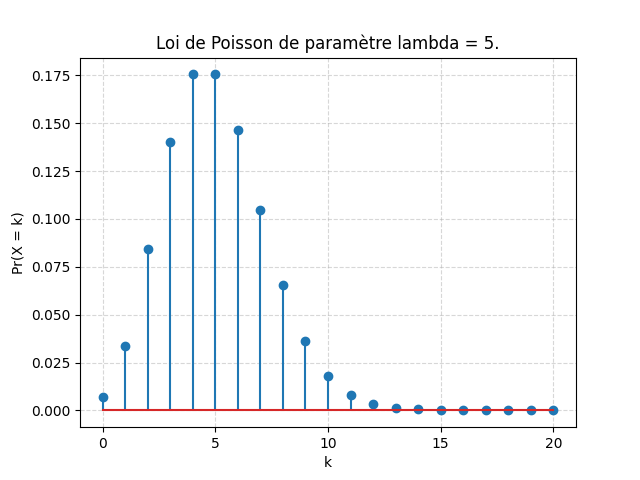
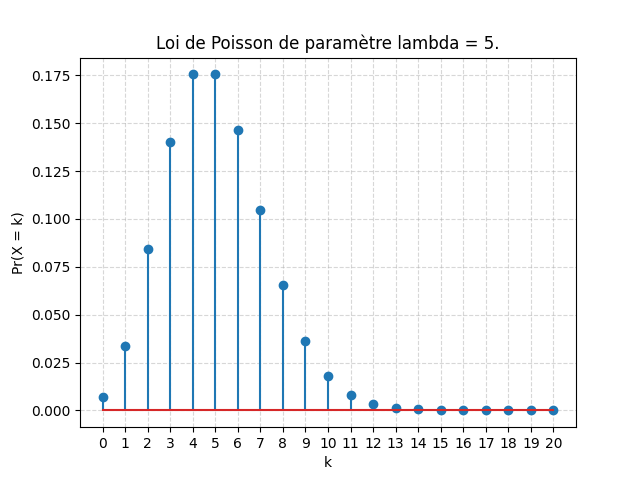
mise a jour seance 4

diff --git a/Seance-04/src/main.py b/Seance-04/src/main.py
@@ -12,11 +12,12 @@ import math
 
 dist_names = ['norm', 'beta', 'gamma', 'pareto', 't', 'lognorm', 'invgamma', 'invgauss',  'loggamma', 'alpha', 'chi', 'chi2', 'bradford', 'burr', 'burr12', 'cauchy', 'dweibull', 'erlang', 'expon', 'exponnorm', 'exponweib', 'exponpow', 'f', 'genpareto', 'gausshyper', 'gibrat', 'gompertz', 'gumbel_r', 'pareto', 'pearson3', 'powerlaw', 'triang', 'weibull_min', 'weibull_max', 'bernoulli', 'betabinom', 'betanbinom', 'binom', 'geom', 'hypergeom', 'logser', 'nbinom', 'poisson', 'poisson_binom', 'randint', 'zipf', 'zipfian']
 
+###
+# DEFINITION DES FONCTIONS LOCALES
+###
 
-## 1 - VISUALISER DES DISTRIBUTIONS
-## 1.A - Distributions statistiques de Variables DISCRETES
-
-## Question 1.A.1 - Loi de Dirac
+## Distributions statistiques de Variables DISCRETES
+## 1.A.1 - Loi de Dirac
 # Dirac = "Une seule issue est probable à 100%."
 def distrib_dirac_discret(a, x_min, x_max):
     X = []
@@ -30,10 +31,121 @@ def distrib_dirac_discret(a, x_min, x_max):
 
     return X, P
 
+## 1.A.2 - Loi Uniforme Discrète
+# Uniforme : "Toutes les issues sont équiprobables."
+def distrib_uniforme_discret(x_min, x_max):
+    X = []
+    P = []
+
+    n = (x_max - x_min) + 1   # n = nombre de valeurs possibles
+    for i in range(x_min, x_max+1):
+        X.append(i)
+        P.append(1/n)         # 1/n = probabilité pour chacune
+
+    return X, P
+
+## 1.A.3 - Loi Binomiale
+def distrib_binomiale_discret(n, p):
+    K = []
+    for k in range(0, n+1):
+        K.append(k)
+
+    P = scipy.stats.binom.pmf(K, n, p)
+
+    return K, P
+
+
+## 1.A.4 - Loi de Poisson
+def distrib_poisson_discret(lam, n_max):
+    K = []
+    for k in range(0, n_max +1):
+        K.append(k)
+
+    P = scipy.stats.poisson.pmf(K, lam)
+
+    return K, P
+
+
+## 1.A.5 - Loi de Zipf-Mandelbrot
+def distrib_zipf_mandelbrot(s, q, N):
+    X = []
+    P = []
+    # Calcul de la constante de normalisation H
+    H = 0
+    for i in range(0, N+1):
+        H += 1.0 / ((i + q)**s)
+    # Fin du calcul de H
+
+    for i in range(0, N+1):
+        X.append(i)
+        P.append(1.0 / (H * ((i + q)**s)))
+
+    return X, P
+
+## Distributions statistiques de Variables CONTINUES
+## 1.B.1 - Loi de Poisson
+def distrib_poisson_continu(mu, n_max, finesse):
+    K_cont = np.linspace(0, n_max, finesse)
+    P_cont = []
+    for i in range(0, len(K_cont)):
+        k = K_cont[i]
+        pr_k = math.exp(-mu) * (mu**k) / (math.gamma(k+1))
+        P_cont.append(pr_k)
+
+    return K_cont, P_cont
+
+## 1.B.2 - Loi Normale
+# Loi Normale : "La fameuse Gaussienne"
+def distrib_normale_continu(mu, sigma, facteur_sigma = 3, finesse = 500):
+    K_cont = np.linspace(mu - facteur_sigma*sigma, mu + facteur_sigma*sigma, finesse) # la largeur de l'intervalle est fixée ici
+    P_cont = scipy.stats.norm.pdf(K_cont, mu, sigma)
+
+    return K_cont, P_cont
+
+## 1.B.3 - Loi Log-normale
+def distrib_normale_continu(mu, sigma, n_max, finesse = 500):
+    K_cont = np.linspace(0.001, n_max, finesse) 
+    P_cont = scipy.stats.lognorm.pdf(K_cont, s=sigma, scale=np.exp(mu))
+
+    return K_cont, P_cont
+
+## 1.B.4 - Loi Uniforme
+def distrib_uniforme_continu(x_min, a, b, x_max, finesse = 500):
+    K_cont = np.linspace(x_min, x_max, finesse)
+    P_cont = scipy.stats.uniform.pdf(K_cont, loc=a, scale=b-a)
+
+    return K_cont, P_cont
+
+## 1.B.5 - Loi du Chi²
+def distrib_chi2_continu(k, n_max, finesse = 500):
+    K_cont = np.linspace(0.001, n_max, finesse)
+    P_cont = scipy.stats.chi2.pdf(K_cont, df=k)
+
+    return K_cont, P_cont
+
+## Question 1.B.6 - Loi de Pareto
+def distrib_pareto_continu(alpha, x_m, n_max, finesse = 500):
+    K_cont = np.linspace(x_m, n_max, finesse)
+    P_cont = scipy.stats.pareto.pdf(K_cont, b=alpha, scale=x_m)
+
+    return K_cont, P_cont
+
+
+
+
+
+
+
+## 1 - VISUALISER DES DISTRIBUTIONS
+## 1.A - Distributions statistiques de Variables DISCRETES
+
+## Question 1.A.1 - Loi de Dirac
+# Dirac = "Une seule issue est probable à 100%."
+
 # Paramètrage
-a = 5
-x_min = 1
-x_max = 6
+a = 7
+x_min = 0
+x_max = 20
 
 # On génère la distribution
 X, P = distrib_dirac_discret(a, x_min, x_max)
@@ -53,16 +165,6 @@ plt.close()
 
 ## Question 1.A.2 - Loi Uniforme Discrète
 # Uniforme : "Toutes les issues sont équiprobables."
-def distrib_uniforme_discret(x_min, x_max):
-    X = []
-    P = []
-
-    n = (x_max - x_min) + 1   # n = nombre de valeurs possibles
-    for i in range(x_min, x_max+1):
-        X.append(i)
-        P.append(1/n)         # 1/n = probabilité pour chacune
-
-    return X, P
 
 # Paramètrage
 x_min = 1
@@ -85,19 +187,10 @@ plt.close()
 
 
 
-
 ## Question 1.A.3 - Loi Binomiale
 # Binomiale : "Je joue à pile ou face 57 fois, 
 #              combien j'ai de chance de remporter au total:
 #              0 manche? 1 manche? 2 manches? ... 57 manches?"
-def distrib_binomiale_discret(n, p):
-    K = []
-    for k in range(0, n+1):
-        K.append(k)
-
-    P = scipy.stats.binom.pmf(K, n, p)
-
-    return K, P
 
 # Paramètrage
 n = 20    # Nombre d'épreuves
@@ -119,6 +212,7 @@ plt.close()
 
 
 
+
 ## Question 1.A.4 - Loi de Poisson
 # Poisson : "Même philosophie que Binomiale, mais quand événement rare."
 #           Exemple : Hypothèse = il y a en moyenne 2 etoiles filantes chaque 5 min.
@@ -126,14 +220,6 @@ plt.close()
 #                     Maintenant on choisit dans la soirée une tranche de 5 min :
 #                        Alors Poisson donne la probabilité qu'il y passe :
 #                        0 comète / 1 comète / 2 comètes / ... / 14 980 comètes / ...
-def distrib_poisson_discret(lam, n_max):
-    K = []
-    for k in range(0, n_max +1):
-        K.append(k)
-
-    P = scipy.stats.poisson.pmf(K, lam)
-
-    return K, P
 
 # Paramètrage
 lam = 5     # Paramètre lambda
@@ -146,12 +232,11 @@ K, P = distrib_poisson_discret(lam, n_max)
 plt.stem(K, P)
 plt.title("Loi de Poisson de paramètre lambda = {}.".format(lam))
 plt.xlabel("k")
-plt.xticks(K[::5])
+plt.xticks(K)
 plt.ylabel("Pr(X = k)")
 plt.grid(True, linestyle="--", alpha=0.5)
 plt.savefig("./output/1_A_Distrib_Discretes/4_Poisson_discret.png")
 plt.close()
-
 
 
 
@@ -173,20 +258,6 @@ plt.close()
 # 
 # N.B.: Zipf-Mandelbrot se retrouve souvent en géographie !
 #       Exemple : classement des populations des villes.
-def distrib_zipf_mandelbrot(s, q, N):
-    X = []
-    P = []
-    # Calcul de la constante de normalisation H
-    H = 0
-    for i in range(0, N+1):
-        H += 1.0 / ((i + q)**s)
-    # Fin du calcul de H
-
-    for i in range(0, N+1):
-        X.append(i)
-        P.append(1.0 / (H * ((i + q)**s)))
-
-    return X, P
 
 # Paramètrage
 s = 1.5  # Exposant (doit être > 1)
@@ -209,18 +280,8 @@ plt.close()
 
 
 
-
 ## 1.B - Distributions statistiques de Variables CONTINUES
 ## Question 1.B.1 - Loi de Poisson
-def distrib_poisson_continu(mu, n_max, finesse):
-    K_cont = np.linspace(0, n_max, finesse)
-    P_cont = []
-    for i in range(0, len(K_cont)):
-        k = K_cont[i]
-        pr_k = math.exp(-mu) * (mu**k) / (math.gamma(k+1))
-        P_cont.append(pr_k)
-
-    return K_cont, P_cont
 
 # Paramètrage
 mu = 5         # Paramètre mu
@@ -250,17 +311,14 @@ plt.savefig("./output/1_B_Distrib_Continues/1_Poisson_continu_remplie.png")
 plt.close()
 
 
+
+
 ## Question 1.B.2 - Loi Normale
 # Loi Normale : "La fameuse Gaussienne"
 #                ... centrée en la valeur mu
 #                ... s'étend de - infini à + infini
 #                ... mais 99.7% se trouvent entre mu - 3 sigma 
 #                                              et mu + 3 sigma
-def distrib_normale_continu(mu, sigma, facteur_sigma = 3, finesse = 500):
-    K_cont = np.linspace(mu - facteur_sigma*sigma, mu + facteur_sigma*sigma, finesse) # la largeur de l'intervalle est fixée ici
-    P_cont = scipy.stats.norm.pdf(K_cont, mu, sigma)
-
-    return K_cont, P_cont
 
 # Paramètrage
 mu = 5             # Paramètre mu, valeur centrale
@@ -296,11 +354,6 @@ plt.close()
 
 
 ## Question 1.B.3 - Loi Log-normale
-def distrib_normale_continu(mu, sigma, n_max, finesse = 500):
-    K_cont = np.linspace(0.001, n_max, finesse) 
-    P_cont = scipy.stats.lognorm.pdf(K_cont, s=sigma, scale=np.exp(mu))
-
-    return K_cont, P_cont
 
 # Paramètrage
 mu = 1             # Paramètre mu
@@ -334,11 +387,6 @@ plt.close()
 
 
 ## Question 1.B.4 - Loi Uniforme
-def distrib_uniforme_continu(x_min, a, b, x_max, finesse = 500):
-    K_cont = np.linspace(x_min, x_max, finesse)
-    P_cont = scipy.stats.uniform.pdf(K_cont, loc=a, scale=b-a)
-
-    return K_cont, P_cont
 
 # Paramètrage
 x_min = -10    # borne sup de la fenêtre
@@ -373,15 +421,10 @@ plt.close()
 
 
 ## Question 1.B.5 - Loi du Chi²
-def distrib_chi2_continu(k, n_max, finesse = 500):
-    K_cont = np.linspace(0.001, n_max, finesse)
-    P_cont = scipy.stats.chi2.pdf(K_cont, df=k)
-
-    return K_cont, P_cont
 
 # Paramètrage
 k = 5          # Paramètre k
-n_max = 50    # Valeur maximale
+n_max = 50     # Valeur maximale
 finesse = 500  # nombre de points
 
 # On génère la distribution
@@ -409,16 +452,10 @@ plt.close()
 
 
 ## Question 1.B.6 - Loi de Pareto
-def distrib_pareto_continu(alpha, x_m, n_max, finesse = 500):
-    K_cont = np.linspace(x_m, n_max, finesse)
-    P_cont = scipy.stats.pareto.pdf(K_cont, b=alpha, scale=x_m)
-
-    return K_cont, P_cont
-
 
 # paramètres
 alpha = 1      # shape
-x_m = 1          # x_m
+x_m = 1        # x_m
 n_max = 20
 finesse = 500  # nombre de points
 
@@ -443,6 +480,9 @@ plt.ylabel("Densité de probabilité f(x)")
 plt.grid(True, linestyle="--", alpha=0.5)
 plt.savefig("./output/1_B_Distrib_Continues/6_Pareto_continu_remplie.png")
 plt.close()
+
+
+
 
 ## 2 - CALCUL MOYENNE ET ECART-TYPE
 # Définition des fonctions
